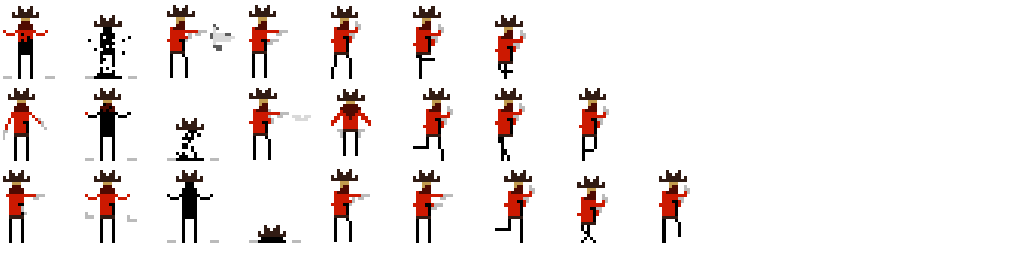
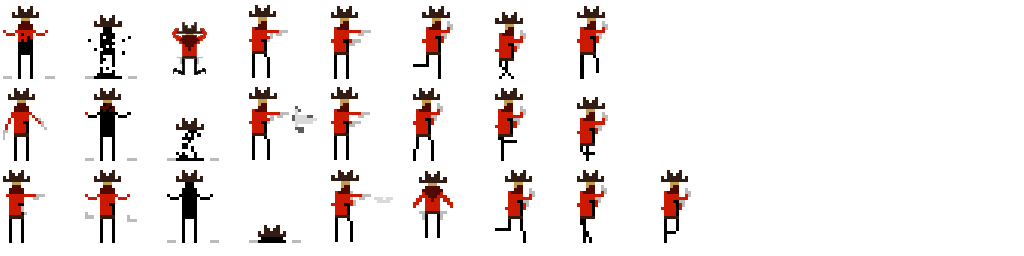
refactor game screen, add action button, new sprite

diff --git a/android/src/com/mikroskil/dor/screen/GameScreen.java b/android/src/com/mikroskil/dor/screen/GameScreen.java
@@ -18,12 +18,17 @@ import com.badlogic.gdx.graphics.g2d.TextureRegion;
 import com.badlogic.gdx.graphics.glutils.ShapeRenderer;
 import com.badlogic.gdx.math.Rectangle;
 import com.badlogic.gdx.math.Vector3;
+import com.badlogic.gdx.scenes.scene2d.InputEvent;
+import com.badlogic.gdx.scenes.scene2d.InputListener;
+import com.badlogic.gdx.scenes.scene2d.ui.ImageButton;
+import com.badlogic.gdx.scenes.scene2d.utils.ClickListener;
 import com.badlogic.gdx.utils.Array;
 import com.mikroskil.dor.Cowboy;
 import com.mikroskil.dor.GameMode;
 import com.mikroskil.dor.World;
 import com.mikroskil.dor.util.ScreenEnum;
 import com.mikroskil.dor.util.ScreenManager;
+import com.mikroskil.dor.util.UIFactory;
 
 import java.text.DecimalFormat;
 import java.util.Random;
@@ -46,6 +51,8 @@ public class GameScreen extends AbstractScreen{
     //Cowboy Texture for left and right player
     private TextureRegion cowboyIdleLeft;
     private TextureRegion cowboyIdleRight;
+    private TextureRegion cowboyHideLeft;
+    private TextureRegion cowboyHideRight;
     private TextureRegion currentFrame;
 
     //world display on screen
@@ -111,7 +118,6 @@ public class GameScreen extends AbstractScreen{
         stateTime =0 ;
         loadTextures();
         loadSound();
-        Gdx.input.setInputProcessor(this);
         loadGameMode();
     }
 
@@ -127,6 +133,8 @@ public class GameScreen extends AbstractScreen{
         drawGame(spriteBatch);
         spriteBatch.end();
 
+        this.draw();
+
         if(debug)
             drawDebug();
     }
@@ -137,6 +145,8 @@ public class GameScreen extends AbstractScreen{
         this.height = h;
         ppuX = (float)width / CAMERA_WIDTH;
         ppuY = (float)height / CAMERA_HEIGHT;
+        Log.d("HEIGHT", Float.toString(ppuX));
+        Log.d("WIDTH", Float.toString(ppuY));
     }
 
     /**
@@ -150,6 +160,10 @@ public class GameScreen extends AbstractScreen{
         cowboyIdleLeft = atlas.findRegion("standing-sprite");
         cowboyIdleRight = new TextureRegion(cowboyIdleLeft);
         cowboyIdleRight.flip(true, false);
+        cowboyHideLeft = atlas.findRegion("hide-sprite");
+        cowboyHideRight = new TextureRegion(cowboyHideLeft);
+        cowboyHideRight.flip(true, false);
+
         TextureRegion[] shootingRightFrames = new TextureRegion[4];
         TextureRegion[] winRightFrames = new TextureRegion[10];
         TextureRegion[] shootingLeftFrames = new TextureRegion[4];
@@ -296,12 +310,19 @@ public class GameScreen extends AbstractScreen{
             Animation animation;
             if(i==1) { //right side cowboy
                 animation = getAnimation(cowboy.getState(), "left");
-                if(animation == null)
-                    currentFrame = cowboyIdleRight;
+                if(animation == null) {
+                    if(cowboy.getState().equals(Cowboy.State.HIDE))
+                        currentFrame = cowboyHideRight;
+                    else
+                        currentFrame = cowboyIdleRight;
+                }
             }else{     //left side cowboy
                 animation = getAnimation(cowboy.getState(), "right");
                 if(animation == null)
-                    currentFrame = cowboyIdleLeft;
+                    if(cowboy.getState().equals(Cowboy.State.HIDE))
+                        currentFrame = cowboyHideLeft;
+                    else
+                        currentFrame = cowboyIdleLeft;
             }
 
             if (animation != null) {
@@ -342,7 +363,7 @@ public class GameScreen extends AbstractScreen{
 
     private void drawCounter(SpriteBatch batch){
         if(flagDrawShot) {
-            counterText = "Guys... \nWait For My Mark";
+            counterText = "Draw!";
         }else if(flagCounterStart){
             counterStateTime += Gdx.graphics.getDeltaTime();
             if(Math.ceil(counterStateTime) <= 3) {
@@ -375,8 +396,8 @@ public class GameScreen extends AbstractScreen{
         glyphLayoutScore.setText(counterBitmap, counterText);
         counterBitmap.setColor(1, 1, 1, 1);
         counterBitmap.getData().setScale(3, 3);
-        counterBitmap.draw(batch, counterText, (Gdx.graphics.getWidth() / 2)-(glyphLayoutScore.width/2),
-                (Gdx.graphics.getHeight()/2)-(glyphLayoutScore.height/2));
+        counterBitmap.draw(batch, counterText, (Gdx.graphics.getWidth() / 2) - (glyphLayoutScore.width / 2),
+                (Gdx.graphics.getHeight() / 2) - (glyphLayoutScore.height / 2));
     }
 
     private void drawBackground(SpriteBatch batch){
@@ -400,17 +421,28 @@ public class GameScreen extends AbstractScreen{
         debugRenderer.end();
     }
 
-    @Override public boolean touchDown (int screenX, int screenY, int pointer, int button) {
-        int touchId;
-        if (screenX < (Gdx.graphics.getWidth() / 2)) {
-            touchId = 1;
-        } else {
-            touchId = 2;
+    private Cowboy getTouchedCowboy(int touchId){
+        for (Cowboy cowboy : world.getCowboys()) {
+            if(cowboy.getCowboyId() == touchId){
+                return cowboy;
+            }
         }
+        return null;
+    }
+    private Cowboy getEnemyCowboy(int touchId){
+        for (Cowboy cowboy : world.getCowboys()) {
+            if(cowboy.getCowboyId() != touchId){
+                return cowboy;
+            }
+        }
+        return null;
+    }
 
+
+
+    private void buttonTouch(int touchId, String buttonType){
         if(flagEndGame){
             ScreenManager.getInstance().showScreen(ScreenEnum.LEVEL_SELECT, null);
-            return false;
         }else if(flagDrawShot){
             loadGameMode();
             reloadSound.play();
@@ -431,105 +463,120 @@ public class GameScreen extends AbstractScreen{
                 scoreBoardText += "Round: " + gameMode.getRound();
         }else if(flagStartShot){
             scoreBoardText="";
-            //search for winner cowboy
-            for (Cowboy cowboy : world.getCowboys()) {
-                if(flagDrawShot) {
-                    cowboy.setState(Cowboy.State.IDLE);
-                    flagFinishShot = true;
-                }else if (cowboy.getCowboyId() == touchId) { //Cowboy who get touch in time
-                    Log.d("TOUCH COWBOY ID", Integer.toString(cowboy.getCowboyId()));
-                    if(!cowboy.isFlagShot() && winId==0) { //Cowboy who follow rule
-                        cowboy.setState(Cowboy.State.SHOOT);
-                        cowboy.addScore();
-                        cowboy.setFlagShot(true);
-                        cowboy.setFlagHit(true);
-                        cowboy.setSpeed(shootSpeedTime);
-                        winId = cowboy.getCowboyId();
-                        hitSound.play();
-                        winSound.play();
-                    }else if(cowboy.isFlagShot() && !cowboy.isFlagHit()){ //Cowboy who not follow rule
-                        //cowboy do nothing
-                    }else{ //Cowboy who win at the round and still get touch
-                        //cowboy do nothing
-                        missSound.play();
+            Cowboy touchedCowboy = getTouchedCowboy(touchId);
+            Cowboy enemyCowboy = getEnemyCowboy(touchId);
+
+            if(winId == 0){
+                if(buttonType.equals("hide")){
+                    touchedCowboy.setState(Cowboy.State.HIDE);
+                    touchedCowboy.setSpeed(shootSpeedTime);
+                }else if(buttonType.equals("idle")) {
+                    touchedCowboy.setState(Cowboy.State.IDLE);
+                    touchedCowboy.setSpeed(0);
+                }else if(buttonType.equals("shoot")){
+                    if (!touchedCowboy.isFlagShot() && touchedCowboy.getState().equals(Cowboy.State.IDLE)) { //Cowboy who follow rule
+                        touchedCowboy.setState(Cowboy.State.SHOOT);
+                        touchedCowboy.setFlagShot(true);
+                        touchedCowboy.setFlagHit(true);
+                        touchedCowboy.setSpeed(shootSpeedTime);
+
+                        if(enemyCowboy.getState().equals(Cowboy.State.IDLE)){
+                            touchedCowboy.addScore();
+                            winId = touchId;
+                            hitSound.play();
+                            winSound.play();
+                            enemyCowboy.setState(Cowboy.State.LOSE);
+                        }else if(enemyCowboy.getState().equals(Cowboy.State.SHOOT)){
+                            if(touchedCowboy.getSpeed() < enemyCowboy.getSpeed() && enemyCowboy.getSpeed()!= 0){
+                                touchedCowboy.addScore();
+                                winId = touchId;
+                                hitSound.play();
+                                winSound.play();
+                            }
+                        }else if(enemyCowboy.getState().equals((Cowboy.State.HIDE))){
+                            missSound.play();
+                        }
                     }
                 }
-                scoreBoardText+= "P"+cowboy.getCowboyId()+": " + cowboy.getScore() + " ; ";
             }
-            //search for lose cowboy
+
+            if(touchedCowboy.isFlagShot() && enemyCowboy.isFlagShot() && winId == 0){
+                flagDrawShot = true;
+            }
+
             for (Cowboy cowboy : world.getCowboys()) {
-                if(!flagDrawShot && winId != cowboy.getCowboyId() && winId != 0){
-                    cowboy.setState(Cowboy.State.LOSE);
-                }
+                scoreBoardText += "P" + cowboy.getCowboyId() + ": " + cowboy.getScore() + " ; ";
             }
 
             if(gameMode.getGameType().equals(GameMode.GameType.CLASSIC))
                 scoreBoardText += "Round: " + gameMode.getRound();
-        }else{
-            boolean allShot = true;
-            for (Cowboy cowboy : world.getCowboys()) {
-                if (cowboy.getCowboyId() == touchId) {
-                    if(!cowboy.isFlagShot()) {
-                        cowboy.setState(Cowboy.State.SHOOT);
-                        cowboy.setFlagShot(true);
-                        cowboy.setFlagHit(false);
-                        missSound.play();
-                    }
-                }
-                if(!cowboy.isFlagShot()) {
-                    allShot = false;
-                }
-            }
-
-            if(allShot)
-                flagDrawShot = true;
         }
-
-        this.cam.unproject(tp.set(screenX, screenY, 0));
-        dragging = true;
-        return true;
-    }
-
-    @Override public boolean touchUp (int screenX, int screenY, int pointer, int button) {
-        if (pointer > 0) return false;
-        this.cam.unproject(tp.set(screenX, screenY, 0));
-        dragging = false;
-        return true;
-    }
-
-    Vector3 tp = new Vector3();
-    boolean dragging;
-    @Override public boolean mouseMoved (int screenX, int screenY) {
-        // we can also handle mouse movement without anything pressed
-//      camera.unproject(tp.set(screenX, screenY, 0));
-        return false;
-    }
-
-    @Override public boolean touchDragged (int screenX, int screenY, int pointer) {
-        if (!dragging) return false;
-        this.cam.unproject(tp.set(screenX, screenY, 0));
-        return true;
-    }
-
-    @Override public boolean keyDown (int keycode) {
-        return false;
-    }
-
-    @Override public boolean keyUp (int keycode) {
-        return false;
-    }
-
-    @Override public boolean keyTyped (char character) {
-        return false;
-    }
-
-    @Override public boolean scrolled (int amount) {
-        return false;
     }
 
     @Override
     public void buildStage() {
+        float ppux = 320.0f / cam.viewportWidth;
+        float ppuy = 240.0f / cam.viewportHeight;
+        ImageButton btnShotLeft = UIFactory.createButton(new Texture(Gdx.files.internal("img/shot-left.png")));
+        btnShotLeft.setPosition(0, 0 * ppuy);
+        btnShotLeft.setSize(1.5f*ppux, 3*ppuy);
+        addActor(btnShotLeft);
 
+        ImageButton btnHideLeft = UIFactory.createButton(new Texture(Gdx.files.internal("img/hide-left.png")));
+        btnHideLeft.setPosition(0, 4 * ppuy);
+        btnHideLeft.setSize(1.5f * ppux, 3 * ppuy);
+        addActor(btnHideLeft);
+
+        ImageButton btnShotRight = UIFactory.createButton(new Texture(Gdx.files.internal("img/shot-right.png")));
+        btnShotRight.setPosition((cam.viewportWidth - 1.5f) * ppux, 4 * ppuy);
+        btnShotRight.setSize(1.5f * ppux, 3 * ppuy);
+        addActor(btnShotRight);
+
+        ImageButton btnHideRight = UIFactory.createButton(new Texture(Gdx.files.internal("img/hide-right.png")));
+        btnHideRight.setPosition((cam.viewportWidth - 1.5f) * ppux, 0 * ppuy);
+        btnHideRight.setSize(1.5f * ppux, 3 * ppuy);
+        addActor(btnHideRight);
+
+        btnShotLeft.addListener(new InputListener() {
+            @Override
+            public boolean touchDown (InputEvent event, float x, float y, int pointer, int button) {
+                buttonTouch(1, "shoot");
+                return true;
+            }
+        });
+        btnShotRight.addListener(new InputListener() {
+            @Override
+            public boolean touchDown (InputEvent event, float x, float y, int pointer, int button) {
+                buttonTouch(2, "shoot");
+                return true;
+            }
+        });
+
+        btnHideLeft.addListener(new InputListener() {
+            @Override
+            public boolean touchDown (InputEvent event, float x, float y, int pointer, int button) {
+                buttonTouch(1, "hide");
+                return true;
+            }
+
+            @Override
+            public void touchUp (InputEvent event, float x, float y, int pointer, int button) {
+                buttonTouch(1, "idle");
+            }
+        });
+        btnHideRight.addListener(new InputListener() {
+            @Override
+            public boolean touchDown (InputEvent event, float x, float y, int pointer, int button) {
+                buttonTouch(2, "hide");
+                return true;
+            }
+
+            @Override
+            public void touchUp (InputEvent event, float x, float y, int pointer, int button) {
+                buttonTouch(2, "idle");
+            }
+        });
+        //Gdx.input.setInputProcessor(this);
     }
 
     @Override

diff --git a/android/src/com/mikroskil/dor/Cowboy.java b/android/src/com/mikroskil/dor/Cowboy.java
@@ -9,7 +9,7 @@ import com.badlogic.gdx.math.Vector2;
 public class Cowboy {
 
     public enum State {
-        IDLE, SHOOT, WIN, LOSE
+        IDLE, SHOOT, WIN, LOSE, HIDE
     }
 
     static final float SIZE = 1f; // half a unit
